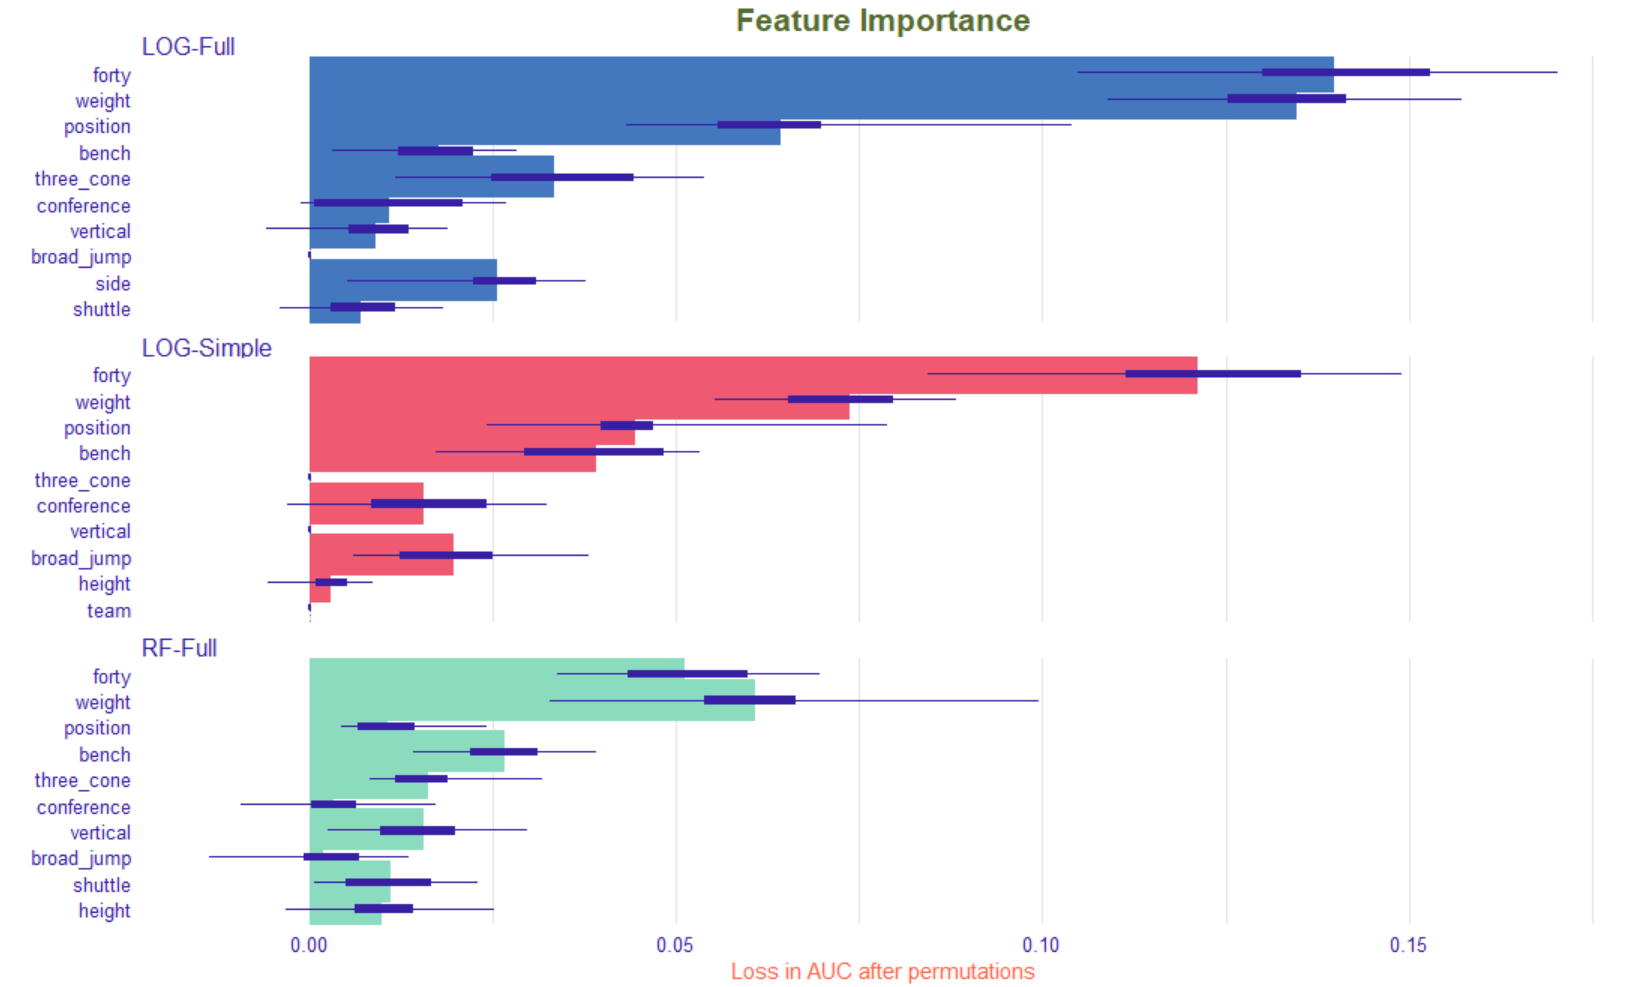
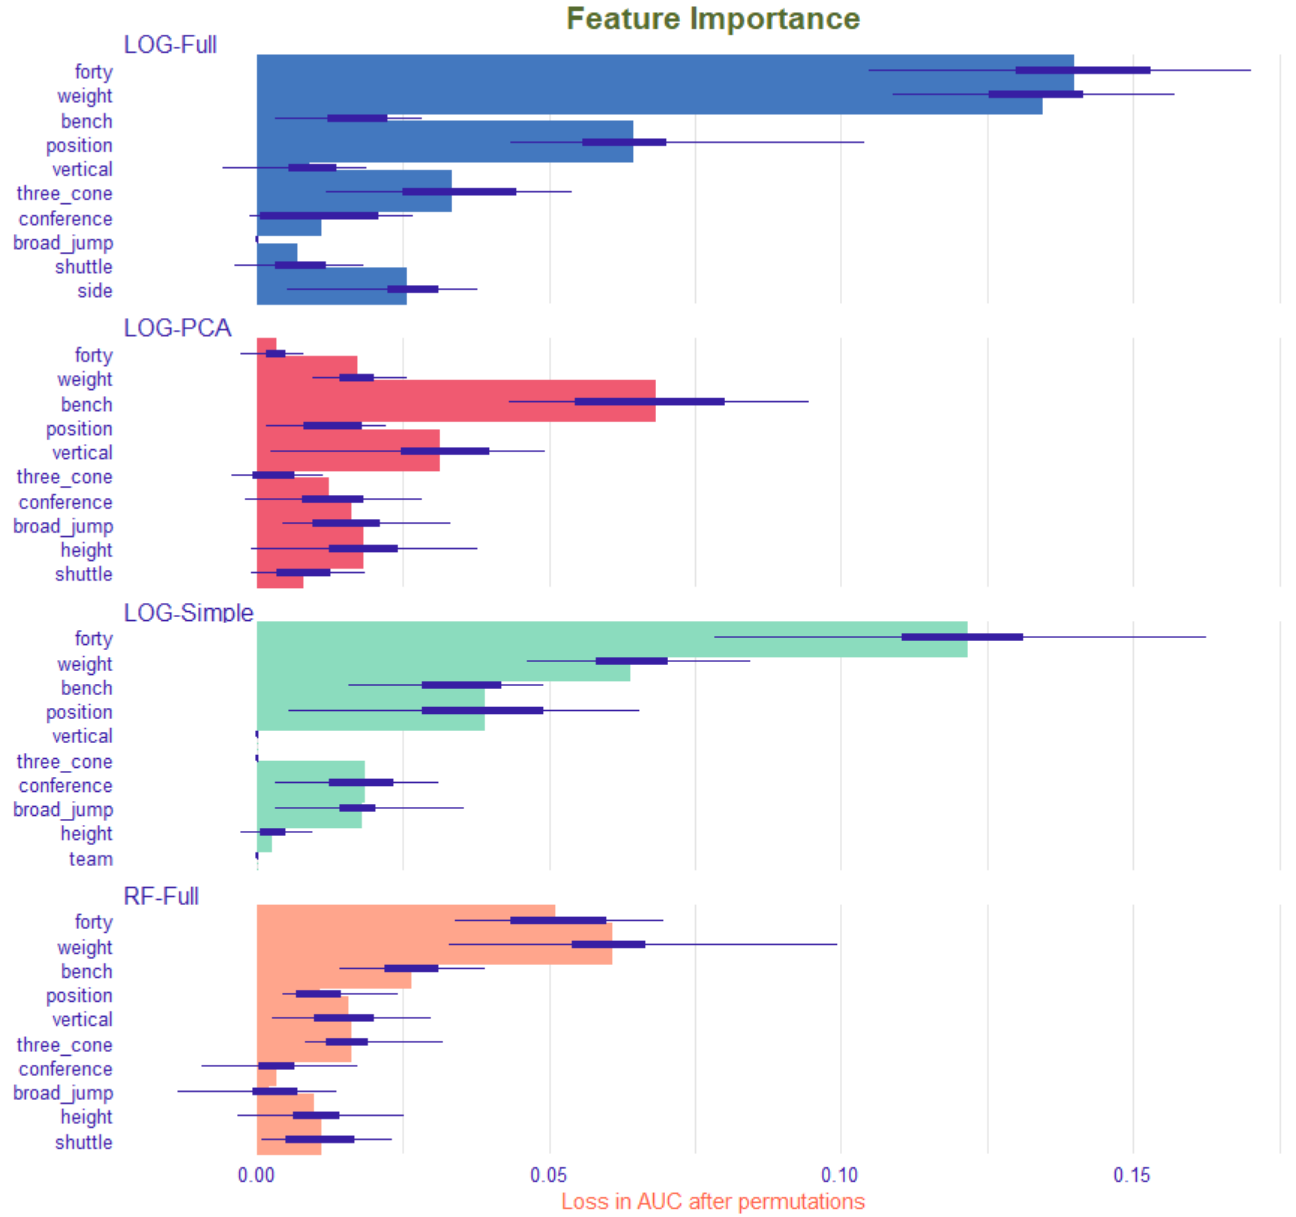
README

diff --git a/README.md b/README.md
@@ -398,7 +398,7 @@ RF-PCA | 0.701 | 0.667 | 0.937 | 0.157 | 0.678 | 0.937 | 0.787
 LOG-Simple | 0.725 | 0.696 | 0.914 | 0.283 | 0.707 | 0.914 | 0.797
 LOG-PCA | 0.657 | 0.678 | 0.963 | 0.138 | 0.679 | 0.963 | 0.797
 
-> **Note (Validation Results):** After comparing the models using the validation set. The best model was **Logistic Regression using NORMAL preprocess (penalty = 0.001, mixture = 0.5)**
+> **Note (Validation Results):** After comparing the models using the validation set. The best model was **Logistic Regression Full Model (penalty = 0.001, mix = 0.5)**
 
 ---
 # Test Results
@@ -460,7 +460,7 @@ RF-PCA | 0.676 | 0.684 | 0.944 | 0.191 | 0.689 | 0.944 | 0.796
 # Prescriptive Analysis
 > After fitting a model an importance aspect of model assessment is to evaluate which features are important and how they effect the target variable, which in this case is the probability of a player being drafted. For this dataset I will be utilizing the DALEX package which uses a model-agnostic approach to asses feature importance
 
-> Based on the Test Results the models I choose to evaluate further is 1) Logistic Regression - PCA 2) Logistic Regression - Full 3) Random Forrest - Full
+> Based on the Test Results the models I choose to evaluate further is **[ 1) Logistic Regression - PCA 2) Logistic Regression - Full 3) Random Forrest - Full ]** because they perform the best. I will also evaluate **_Logistic Regression - Simple_** because it was performed nearly as well as those models. Also ideally this is the simplest most interpretable model in my opinion. 
 
 ## Feature Importance
 > To calculate feature importance the DALEX package first calculates the Loss of the normal model then permutes the variable of the feature in question. And finally takes the difference between the two. _(In this case I used AUC as the Loss Metric)_  
